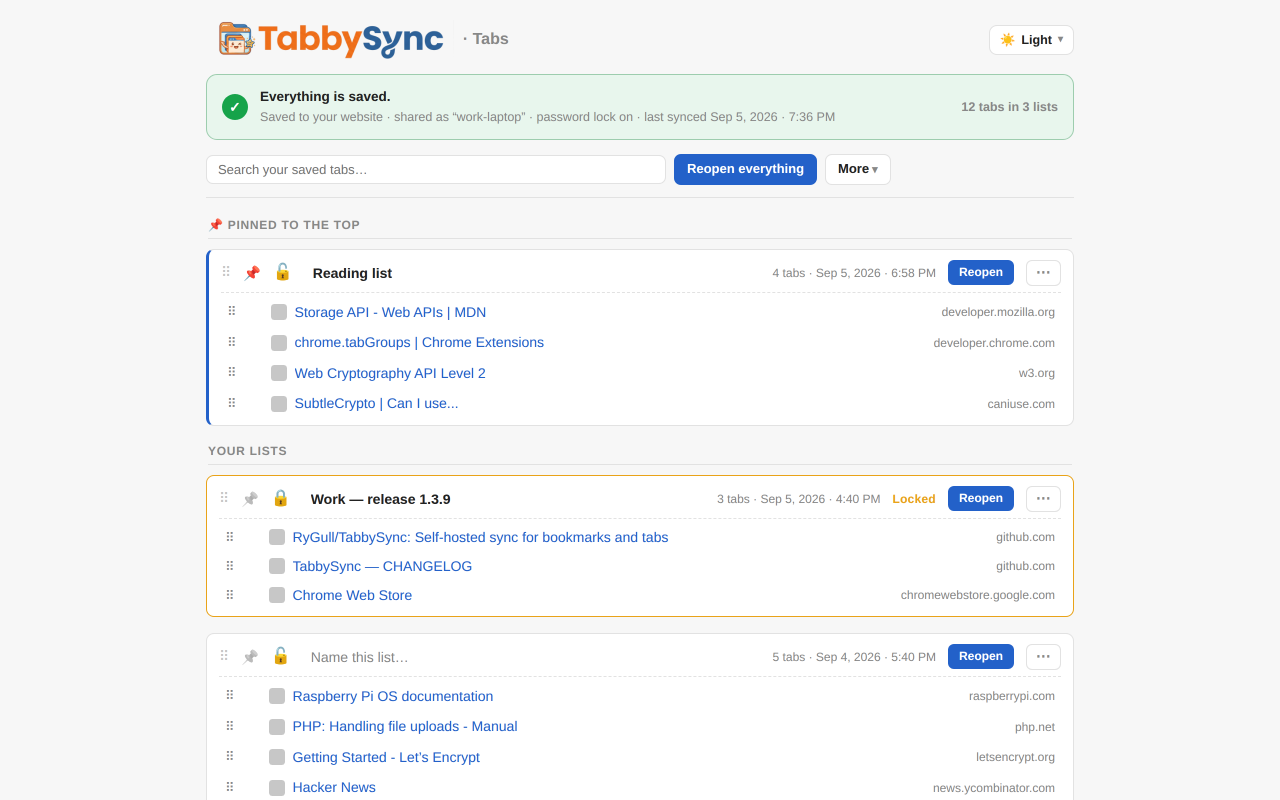
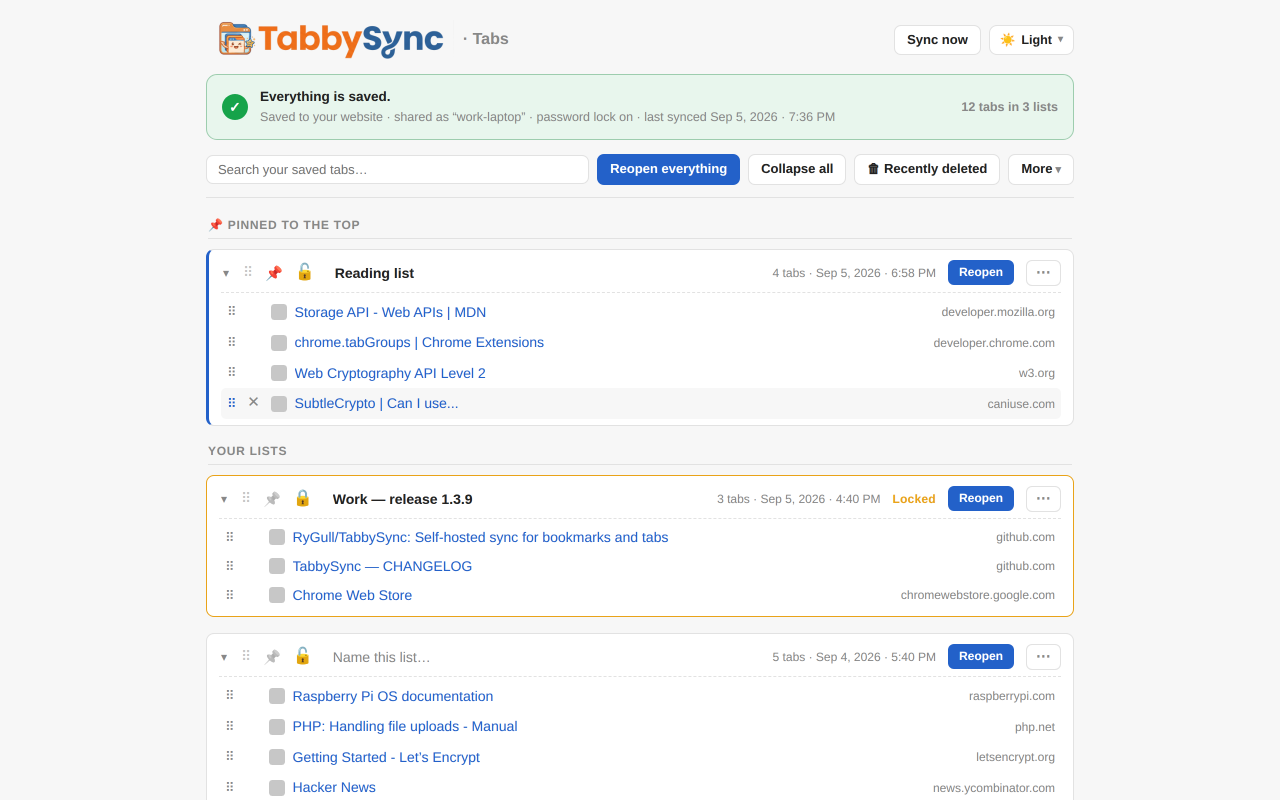
Document guided setup on the site, README and store listing
- website/index.php: a new screenshot block for the wizard right after
  the popup's, a mention in "Set up once, sync everywhere", and the
  Install section's steps now name both paths in
- README.md: same mention in Install, plus the wizard screenshot
- store/paste/01-detailed-description.txt and 12-whats-new.txt: mention
  guided setup as an option
- scripts/screenshots.mjs: new `wizard` page (options.html?wizard=1),
  captured with storage cleared first (and restored after) so it shows
  the fresh-install state rather than whatever the run's seeded config
  happens to be
- Regenerated every screenshot the site/README/store use — they had
  gone stale across this session's popup/tab-list/Options layout
  changes, which is exactly the kind of drift scripts/screenshots.mjs
  exists to prevent

Bumps to 1.6.1.

Claude-Session: https://claude.ai/code/session_019Rn2heWsSfK8UB1yKF5tdX

diff --git a/website/index.php b/website/index.php
@@ -131,10 +131,27 @@ require __DIR__ . '/includes/header.php';
         <p class="shot-note">Shown: syncing to your own website, with the password lock on.</p>
       </div>
       <figure class="shot-figure shot-figure-narrow">
-        <img class="shot-light" src="/assets/img/screenshots/popup-light.png" width="480" height="897"
+        <img class="shot-light" src="/assets/img/screenshots/popup-light.png" width="480" height="788"
              alt="TabbySync popup in light mode, showing the Bookmarks and Tabs cards with their sync status." loading="lazy" decoding="async">
-        <img class="shot-dark" src="/assets/img/screenshots/popup-dark.png" width="480" height="897"
+        <img class="shot-dark" src="/assets/img/screenshots/popup-dark.png" width="480" height="788"
              alt="The same TabbySync popup in dark mode." loading="lazy" decoding="async">
+      </figure>
+    </div>
+
+    <div class="shot-block">
+      <div class="shot-copy">
+        <h3>Never set it up before? There's a wizard for that</h3>
+        <p>On a fresh install, the popup shows the same two cards blurred behind two buttons:
+          <strong>Walk me through it</strong>, or set it up yourself. The guided path is the same
+          four questions below, one at a time, with Back and Next — not a second, simplified setup
+          to keep in step with the real one.</p>
+        <p class="shot-note">Shown: step 1, before anything has been chosen yet.</p>
+      </div>
+      <figure class="shot-figure">
+        <img class="shot-light" src="/assets/img/screenshots/wizard-light.png" width="1280" height="800"
+             alt="TabbySync's guided setup wizard in light mode, showing step 1 of 4 with a Back and Next bar." loading="lazy" decoding="async">
+        <img class="shot-dark" src="/assets/img/screenshots/wizard-dark.png" width="1280" height="800"
+             alt="The same guided setup wizard in dark mode." loading="lazy" decoding="async">
       </figure>
     </div>
 
@@ -191,6 +208,8 @@ require __DIR__ . '/includes/header.php';
 <section class="how" id="how-it-works">
   <div class="wrap">
     <h2 class="section-title">Set up once, sync everywhere</h2>
+    <p class="section-lede">The four steps below, in order — or open the popup on a fresh install
+      and click <strong>Walk me through it</strong> for the same four, one at a time.</p>
     <ol class="steps">
       <li>
         <span class="step-num">1</span>
@@ -267,8 +286,11 @@ require __DIR__ . '/includes/header.php';
     <?php require __DIR__ . '/includes/downloads.php'; ?>
     <ol class="install-steps">
       <li>Add the extension from the store your browser uses.</li>
-      <li>Click the <?= e(SITE_NAME) ?> icon, choose Bookmarks, Tabs, or both, and open Settings.</li>
-      <li>Point it at a destination — your own server, a private GitHub Gist, or JSONBin.io.</li>
+      <li>Click the <?= e(SITE_NAME) ?> icon. On a fresh install it offers two ways in:
+        <strong>Walk me through it</strong> for a step-by-step guided setup, or set it up
+        yourself from Settings.</li>
+      <li>Either way, you're choosing the same thing: a destination — your own server, a
+        private GitHub Gist, or JSONBin.io.</li>
     </ol>
     <div class="hero-actions">
       <a class="btn btn-ghost" href="<?= e(GITHUB_URL) ?>" target="_blank" rel="noopener">Get the source on GitHub</a>

diff --git a/website/config.php b/website/config.php
@@ -15,7 +15,7 @@ declare(strict_types=1);
 const SITE_URL      = 'https://tabbysync.com';
 const SITE_NAME     = 'TabbySync';
 const TAGLINE        = 'Self-hosted sync for your bookmarks and your open tabs.';
-const CURRENT_VERSION = '1.6.0'; // keep in step with manifest.json in the extension repo
+const CURRENT_VERSION = '1.6.1'; // keep in step with manifest.json in the extension repo
 const GITHUB_URL     = 'https://github.com/RyGull/TabbySync';
 const LICENSE_URL    = GITHUB_URL . '/blob/main/LICENSE';
 // GitHub's blob view renders privacy.html as escaped source, not as a page,

diff --git a/README.md b/README.md
@@ -53,6 +53,11 @@ below for how that works. Light mode shown; the dark files sit beside each one i
 | --- | --- |
 | <img src="docs/screenshots/web/options-light.png" alt="TabbySync options, server and sync" width="420"> | <img src="docs/screenshots/web/options-engines-light.png" alt="TabbySync options, bookmarks and tabs cards" width="420"> |
 
+Guided setup — the same options page, one step at a time, opened by the
+popup's **Walk me through it** button on a fresh install:
+
+<img src="docs/screenshots/web/wizard-light.png" alt="TabbySync's guided setup wizard, step 1 of 4" width="420">
+
 ## Install
 
 One click from whichever store your browser uses, and it auto-updates:
@@ -63,8 +68,11 @@ One click from whichever store your browser uses, and it auto-updates:
   built-in data-collection consent screen landed; see
   [Firefox](#firefox) for why that is the floor.)
 
-Then click the TabbySync icon → the popup lets you enable Bookmarks, Tabs, or
-both, and open **Options**.
+Then click the TabbySync icon. On a fresh install the popup offers two ways
+in: **Walk me through it**, a guided setup that asks the same four Options
+questions one at a time with Back/Next, or **Set up manually** to open
+**Options** and fill it in yourself. Either way you end up choosing the same
+thing — enable Bookmarks, Tabs, or both, and a destination.
 
 The same extension, the same file format, the same server: a bookmark saved
 from Firefox and one saved from Chrome land in the same file under the same
@@ -288,9 +296,9 @@ four sizes (Chrome requires PNG for toolbar icons — it doesn't accept SVG).
 
 `scripts/screenshots.mjs` loads this working tree as an unpacked extension in a
 throwaway Chromium profile, seeds a demo profile into `chrome.storage.local`,
-and photographs the real popup, tab list and options pages in both light and
-dark mode. Nothing is mocked up, so a UI change is one command away from being
-reflected everywhere the screenshots appear:
+and photographs the real popup, tab list, options and guided-setup-wizard
+pages in both light and dark mode. Nothing is mocked up, so a UI change is one
+command away from being reflected everywhere the screenshots appear:
 
 ```
 npm install          # playwright is the only dev dependency

diff --git a/CHANGELOG.md b/CHANGELOG.md
@@ -6,6 +6,19 @@ can see it belongs in this file.
 
 Versions before 1.3.0 predate this changelog; their history is in the git log.
 
+## 1.6.1 — 2026-09-10
+
+**Docs and marketing catch up to guided setup.**
+
+- The marketing site, README and Chrome Web Store copy now mention guided
+  setup as an install option, alongside a new screenshot of it
+  (`scripts/screenshots.mjs` gained a `wizard` page, captured with storage
+  cleared so it shows a fresh install rather than an already-configured one).
+- Every other screenshot on the site and in the README was regenerated —
+  they had gone stale across this session's popup, tab-list and Options
+  layout changes (the header reorganizations, the popup's two-column header,
+  the Control Panel card moving to the top of Options, and more).
+
 ## 1.6.0 — 2026-09-10
 
 - **Guided setup's "You're all set" screen throws confetti.** A brief burst
